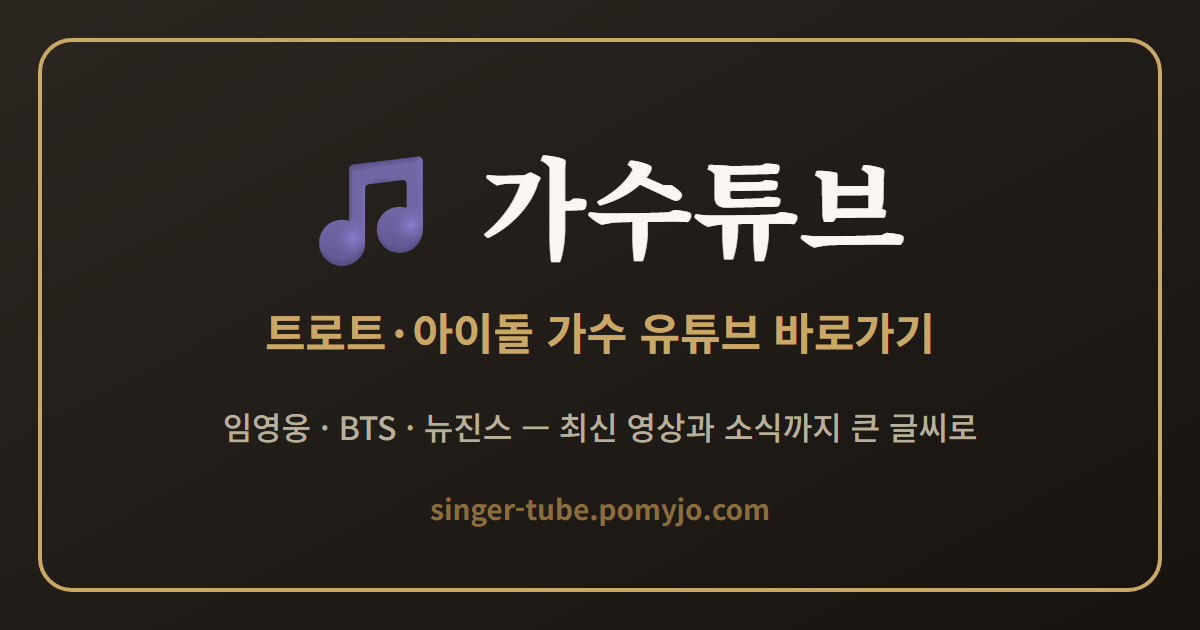
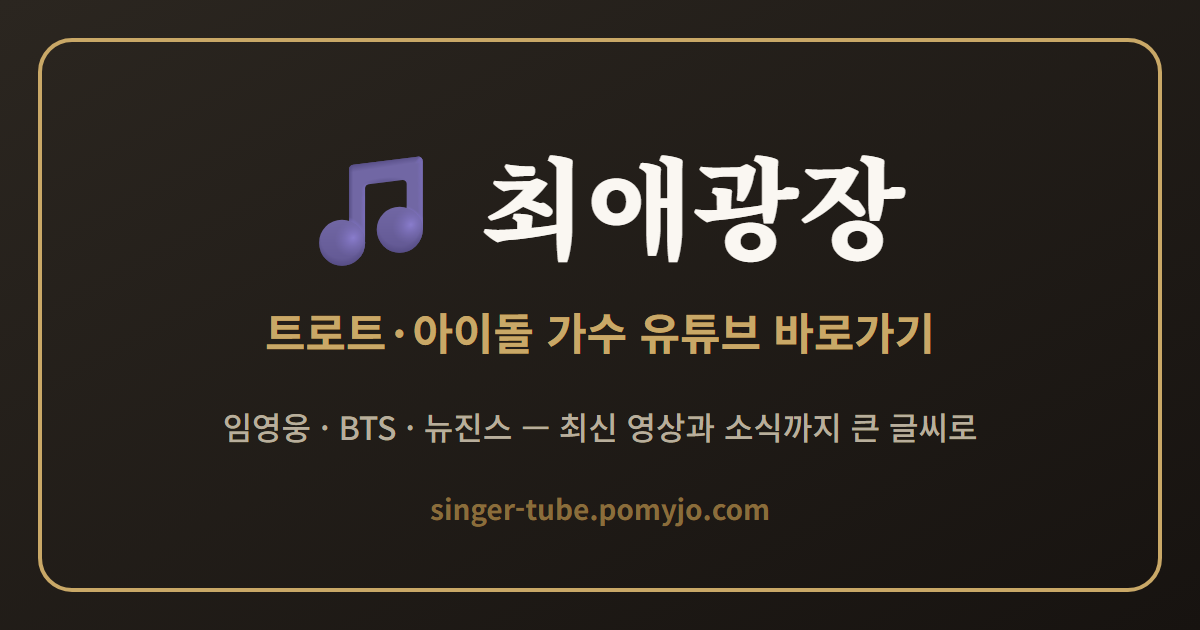
fix: 가수튜브 잔재 전수 제거 (manifest/privacy/terms/og/sitemap)

Changed region(s): [[0.4008, 0.2413, 0.7708, 0.4222]]

diff --git a/public/privacy.html b/public/privacy.html
@@ -3,7 +3,7 @@
 <head>
 <meta charset="UTF-8">
 <meta name="viewport" content="width=device-width, initial-scale=1.0">
-<title>개인정보처리방침 — 가수튜브</title>
+<title>개인정보처리방침 — 최애광장</title>
 <meta name="robots" content="noindex">
 <link href="https://fonts.googleapis.com/css2?family=Noto+Serif+KR:wght@400;600;700;900&family=Noto+Sans+KR:wght@300;400;500;700;900&display=swap" rel="stylesheet">
 <style>
@@ -21,10 +21,10 @@
 <body>
 <div class="wrap">
   <h1>개인정보처리방침</h1>
-  <div class="date">가수튜브 (singer-tube.pomyjo.com) · 시행일: 2026년 8월 12일</div>
+  <div class="date">최애광장 (choeae-plaza.pomyjo.com) · 시행일: 2026년 8월 12일</div>
 
   <h2>1. 수집하는 개인정보</h2>
-  <p>가수튜브는 회원가입 절차가 없는 비회원 서비스로, 이름·이메일·전화번호 등 개인식별정보를 수집하지 않습니다. 다만 다음의 정보가 자동으로 수집될 수 있습니다:</p>
+  <p>최애광장는 회원가입 절차가 없는 비회원 서비스로, 이름·이메일·전화번호 등 개인식별정보를 수집하지 않습니다. 다만 다음의 정보가 자동으로 수집될 수 있습니다:</p>
   <p>- 댓글 작성 시 사용자가 직접 입력한 이름과 댓글 내용<br>
   - 서비스 이용 과정에서 발생하는 접속 로그(IP 주소, 방문 일시, 페이지 경로)<br>
   - 응원(하트) 투표 시 IP 주소와 투표 일시 (중복 투표 방지 목적)</p>
@@ -41,10 +41,10 @@
   <p>수집된 개인정보는 원칙적으로 제3자에게 제공하지 않습니다. 다만, 서비스 이용 시 연결되는 외부 서비스(유튜브, X(트위터), 인스타그램, 페이스북, 구글 뉴스)는 각 사의 개인정보처리방침이 적용됩니다.</p>
 
   <h2>5. 쿠키 및 로컬 저장소</h2>
-  <p>가수튜브는 출석 체크, 글자 크기 설정, 투표 상태 저장을 위해 브라우저 로컬 저장소(localStorage)를 사용합니다. 이 정보는 사용자의 기기에만 저장되며, 광고 목적의 쿠키는 사용자의 별도 동의가 있을 때만 사용됩니다.</p>
+  <p>최애광장는 출석 체크, 글자 크기 설정, 투표 상태 저장을 위해 브라우저 로컬 저장소(localStorage)를 사용합니다. 이 정보는 사용자의 기기에만 저장되며, 광고 목적의 쿠키는 사용자의 별도 동의가 있을 때만 사용됩니다.</p>
 
   <h2>6. 광고</h2>
-  <p>가수튜브는 구글 애드센스(Google AdSense) 등 광고 서비스를 운영할 수 있으며, 광고 제공 과정에서 제3자 쿠키가 사용될 수 있습니다. 이에 대한 상세 내용은 <a href="https://policies.google.com/technologies/partner-sites" target="_blank" rel="noopener">Google 파트너 사이트 정책</a>을 참고하세요.</p>
+  <p>최애광장는 구글 애드센스(Google AdSense) 등 광고 서비스를 운영할 수 있으며, 광고 제공 과정에서 제3자 쿠키가 사용될 수 있습니다. 이에 대한 상세 내용은 <a href="https://policies.google.com/technologies/partner-sites" target="_blank" rel="noopener">Google 파트너 사이트 정책</a>을 참고하세요.</p>
 
   <h2>7. 이용자의 권리</h2>
   <p>이용자는 언제든지 자신의 댓글 삭제를 요청할 수 있습니다. 삭제 요청은 하단 문의 이메일로 보내주시면 지체 없이 처리합니다.</p>
@@ -52,7 +52,7 @@
   <h2>8. 문의</h2>
   <p>개인정보 관련 문의: <a href="mailto:nokira1024@gmail.com">nokira1024@gmail.com</a></p>
 
-  <footer>© 2026 가수튜브 · <a href="/">홈으로</a></footer>
+  <footer>© 2026 최애광장 · <a href="/">홈으로</a></footer>
 </div>
 </body>
 </html>

diff --git a/public/terms.html b/public/terms.html
@@ -3,7 +3,7 @@
 <head>
 <meta charset="UTF-8">
 <meta name="viewport" content="width=device-width, initial-scale=1.0">
-<title>이용약관 — 가수튜브</title>
+<title>이용약관 — 최애광장</title>
 <meta name="robots" content="noindex">
 <link href="https://fonts.googleapis.com/css2?family=Noto+Serif+KR:wght@400;600;700;900&family=Noto+Sans+KR:wght@300;400;500;700;900&display=swap" rel="stylesheet">
 <style>
@@ -21,10 +21,10 @@
 <body>
 <div class="wrap">
   <h1>이용약관</h1>
-  <div class="date">가수튜브 (singer-tube.pomyjo.com) · 시행일: 2026년 8월 12일</div>
+  <div class="date">최애광장 (choeae-plaza.pomyjo.com) · 시행일: 2026년 8월 12일</div>
 
   <h2>제1조 (목적)</h2>
-  <p>본 약관은 가수튜브(이하 "서비스")가 제공하는 모든 서비스의 이용 조건 및 절차, 이용자와 서비스 운영자의 권리·의무를 규정함을 목적으로 합니다.</p>
+  <p>본 약관은 최애광장(이하 "서비스")가 제공하는 모든 서비스의 이용 조건 및 절차, 이용자와 서비스 운영자의 권리·의무를 규정함을 목적으로 합니다.</p>
 
   <h2>제2조 (서비스 내용)</h2>
   <p>서비스는 인기 트로트·아이돌 가수의 유튜브 채널 연결, 최신 영상 안내, 히트곡 차트, 연예인 소식, 댓글, 방송 일정, 가수 퀴즈, 응원 랭킹 등을 제공합니다.</p>
@@ -54,7 +54,7 @@
   <h2>제9조 (문의)</h2>
   <p>문의: <a href="mailto:nokira1024@gmail.com">nokira1024@gmail.com</a></p>
 
-  <footer>© 2026 가수튜브 · <a href="/">홈으로</a></footer>
+  <footer>© 2026 최애광장 · <a href="/">홈으로</a></footer>
 </div>
 </body>
 </html>

diff --git a/public/index.html b/public/index.html
@@ -8,7 +8,7 @@
 <meta name="description" content="임영웅, 영탁, 이찬원, BTS, 블랙핑크 등 인기 트로트·아이돌 가수의 유튜브 채널로 한 번에! 최신 영상, 히트곡 차트, 방송 일정, 가수 퀴즈까지.">
 <meta property="og:title" content="최애광장 — 가수 유튜브 바로가기">
 <meta property="og:description" content="트로트·아이돌 인기 가수의 유튜브 채널, 최신 영상, 히트곡 차트, 방송 일정을 큰 글씨로 편하게.">
-<meta property="og:image" content="https://singer-tube.pomyjo.com/og-banner.png">
+<meta property="og:image" content="https://choeae-plaza.pomyjo.com/og-banner.png">
 <meta property="og:type" content="website">
 <link rel="preconnect" href="https://fonts.googleapis.com">
 <link rel="preconnect" href="https://fonts.gstatic.com" crossorigin>
